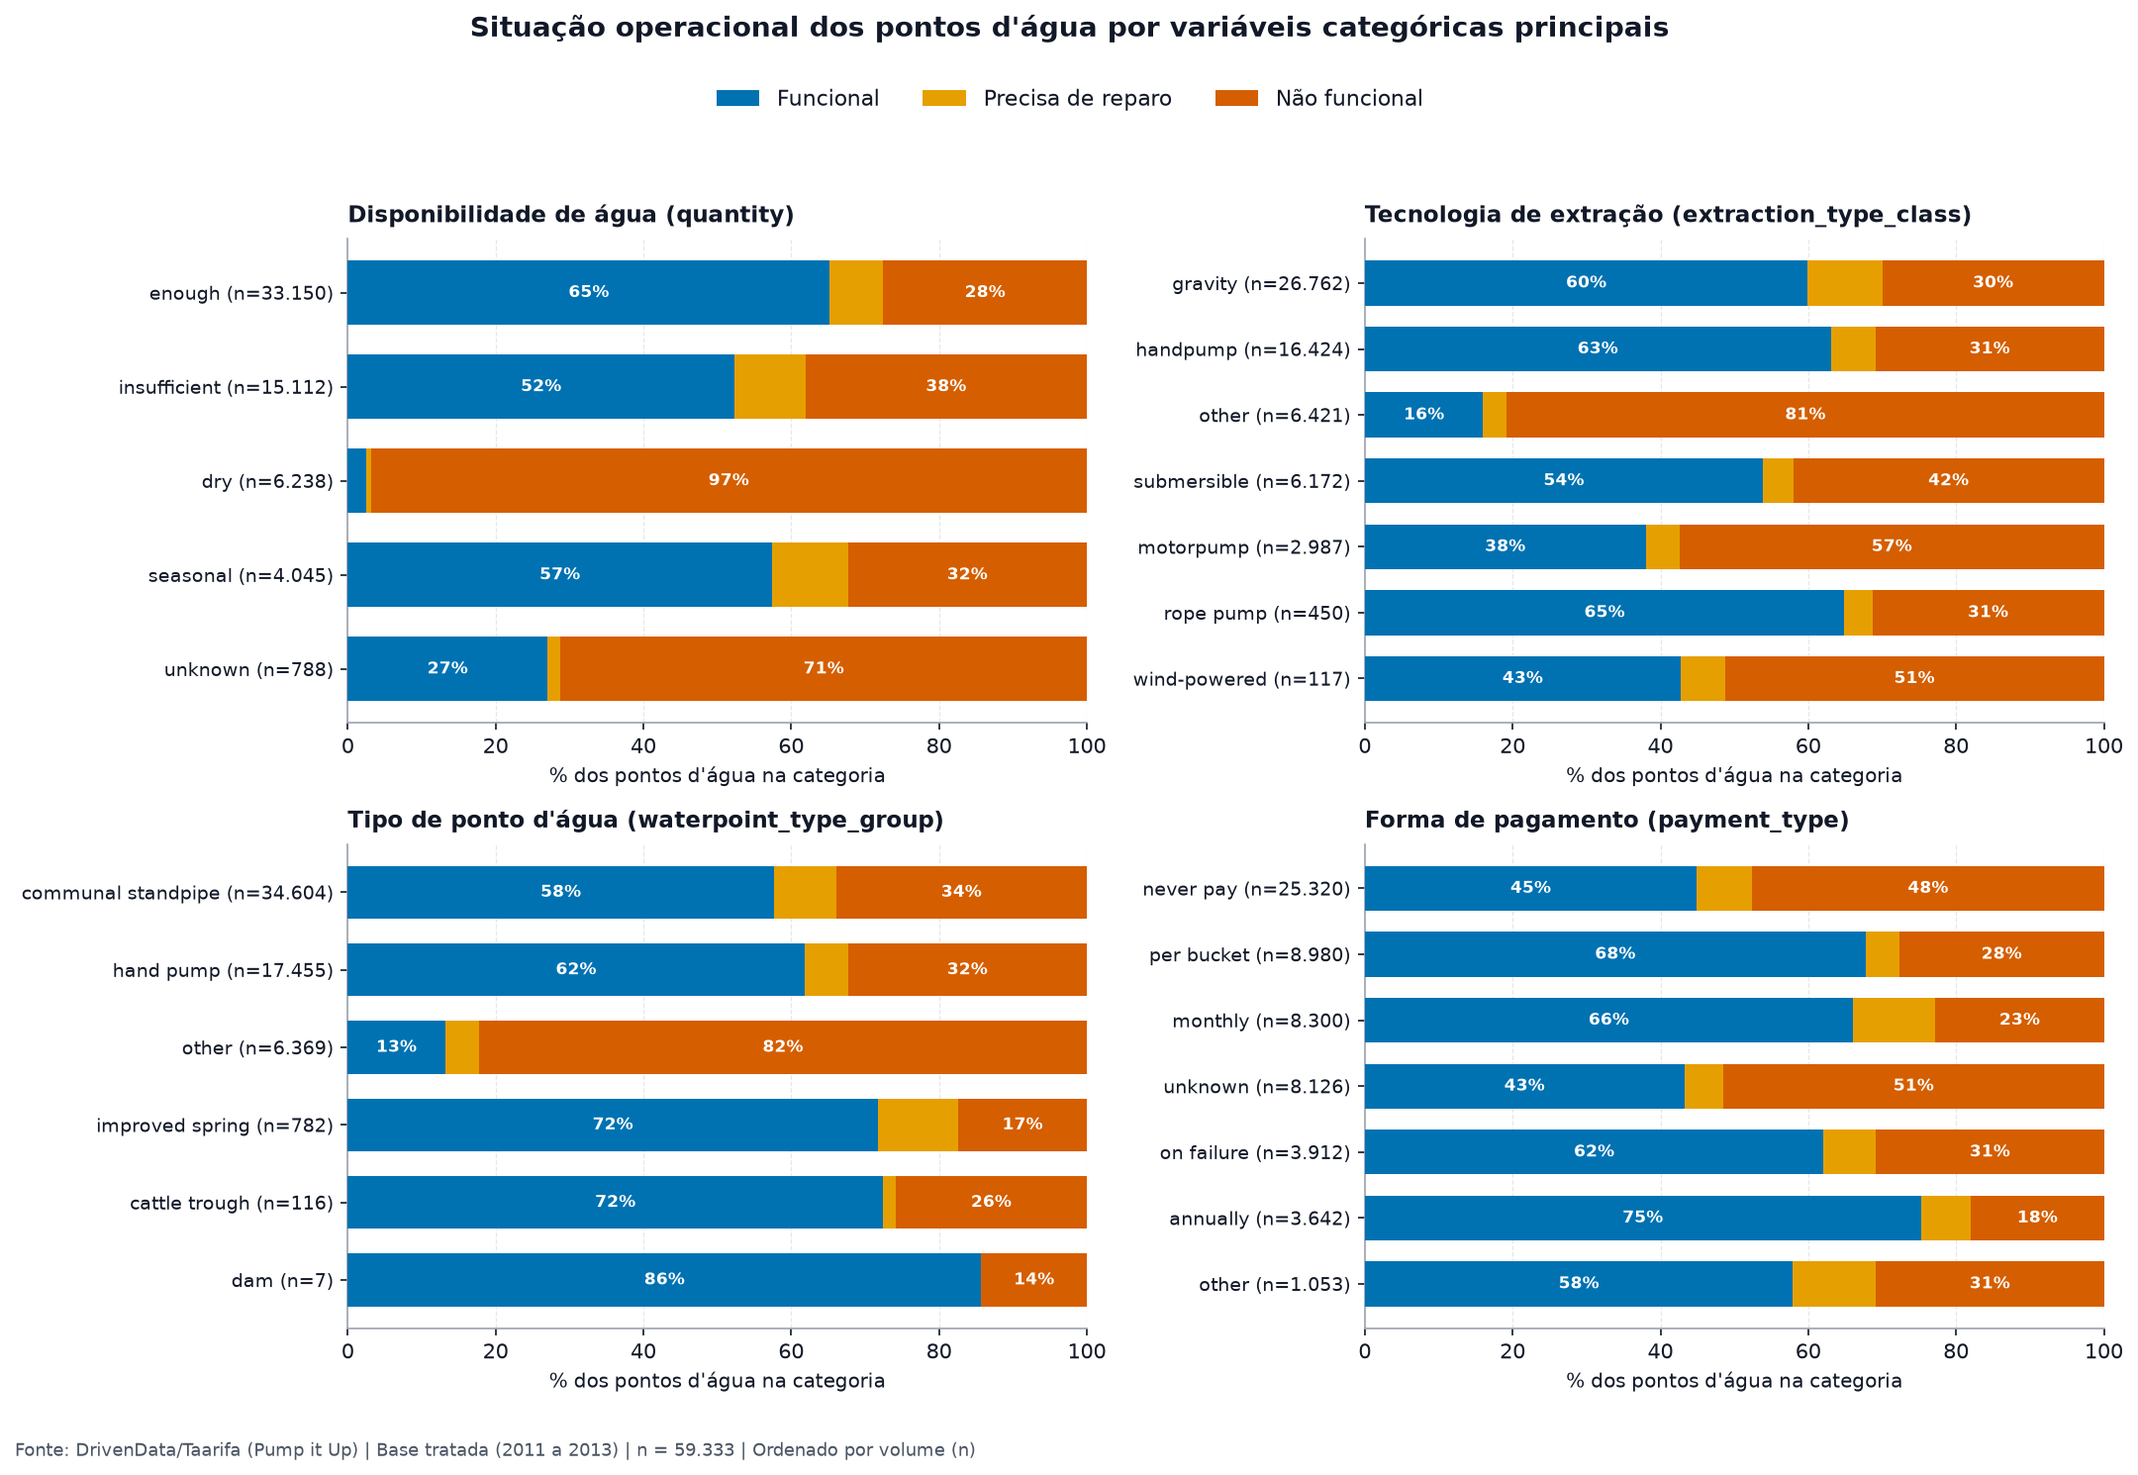
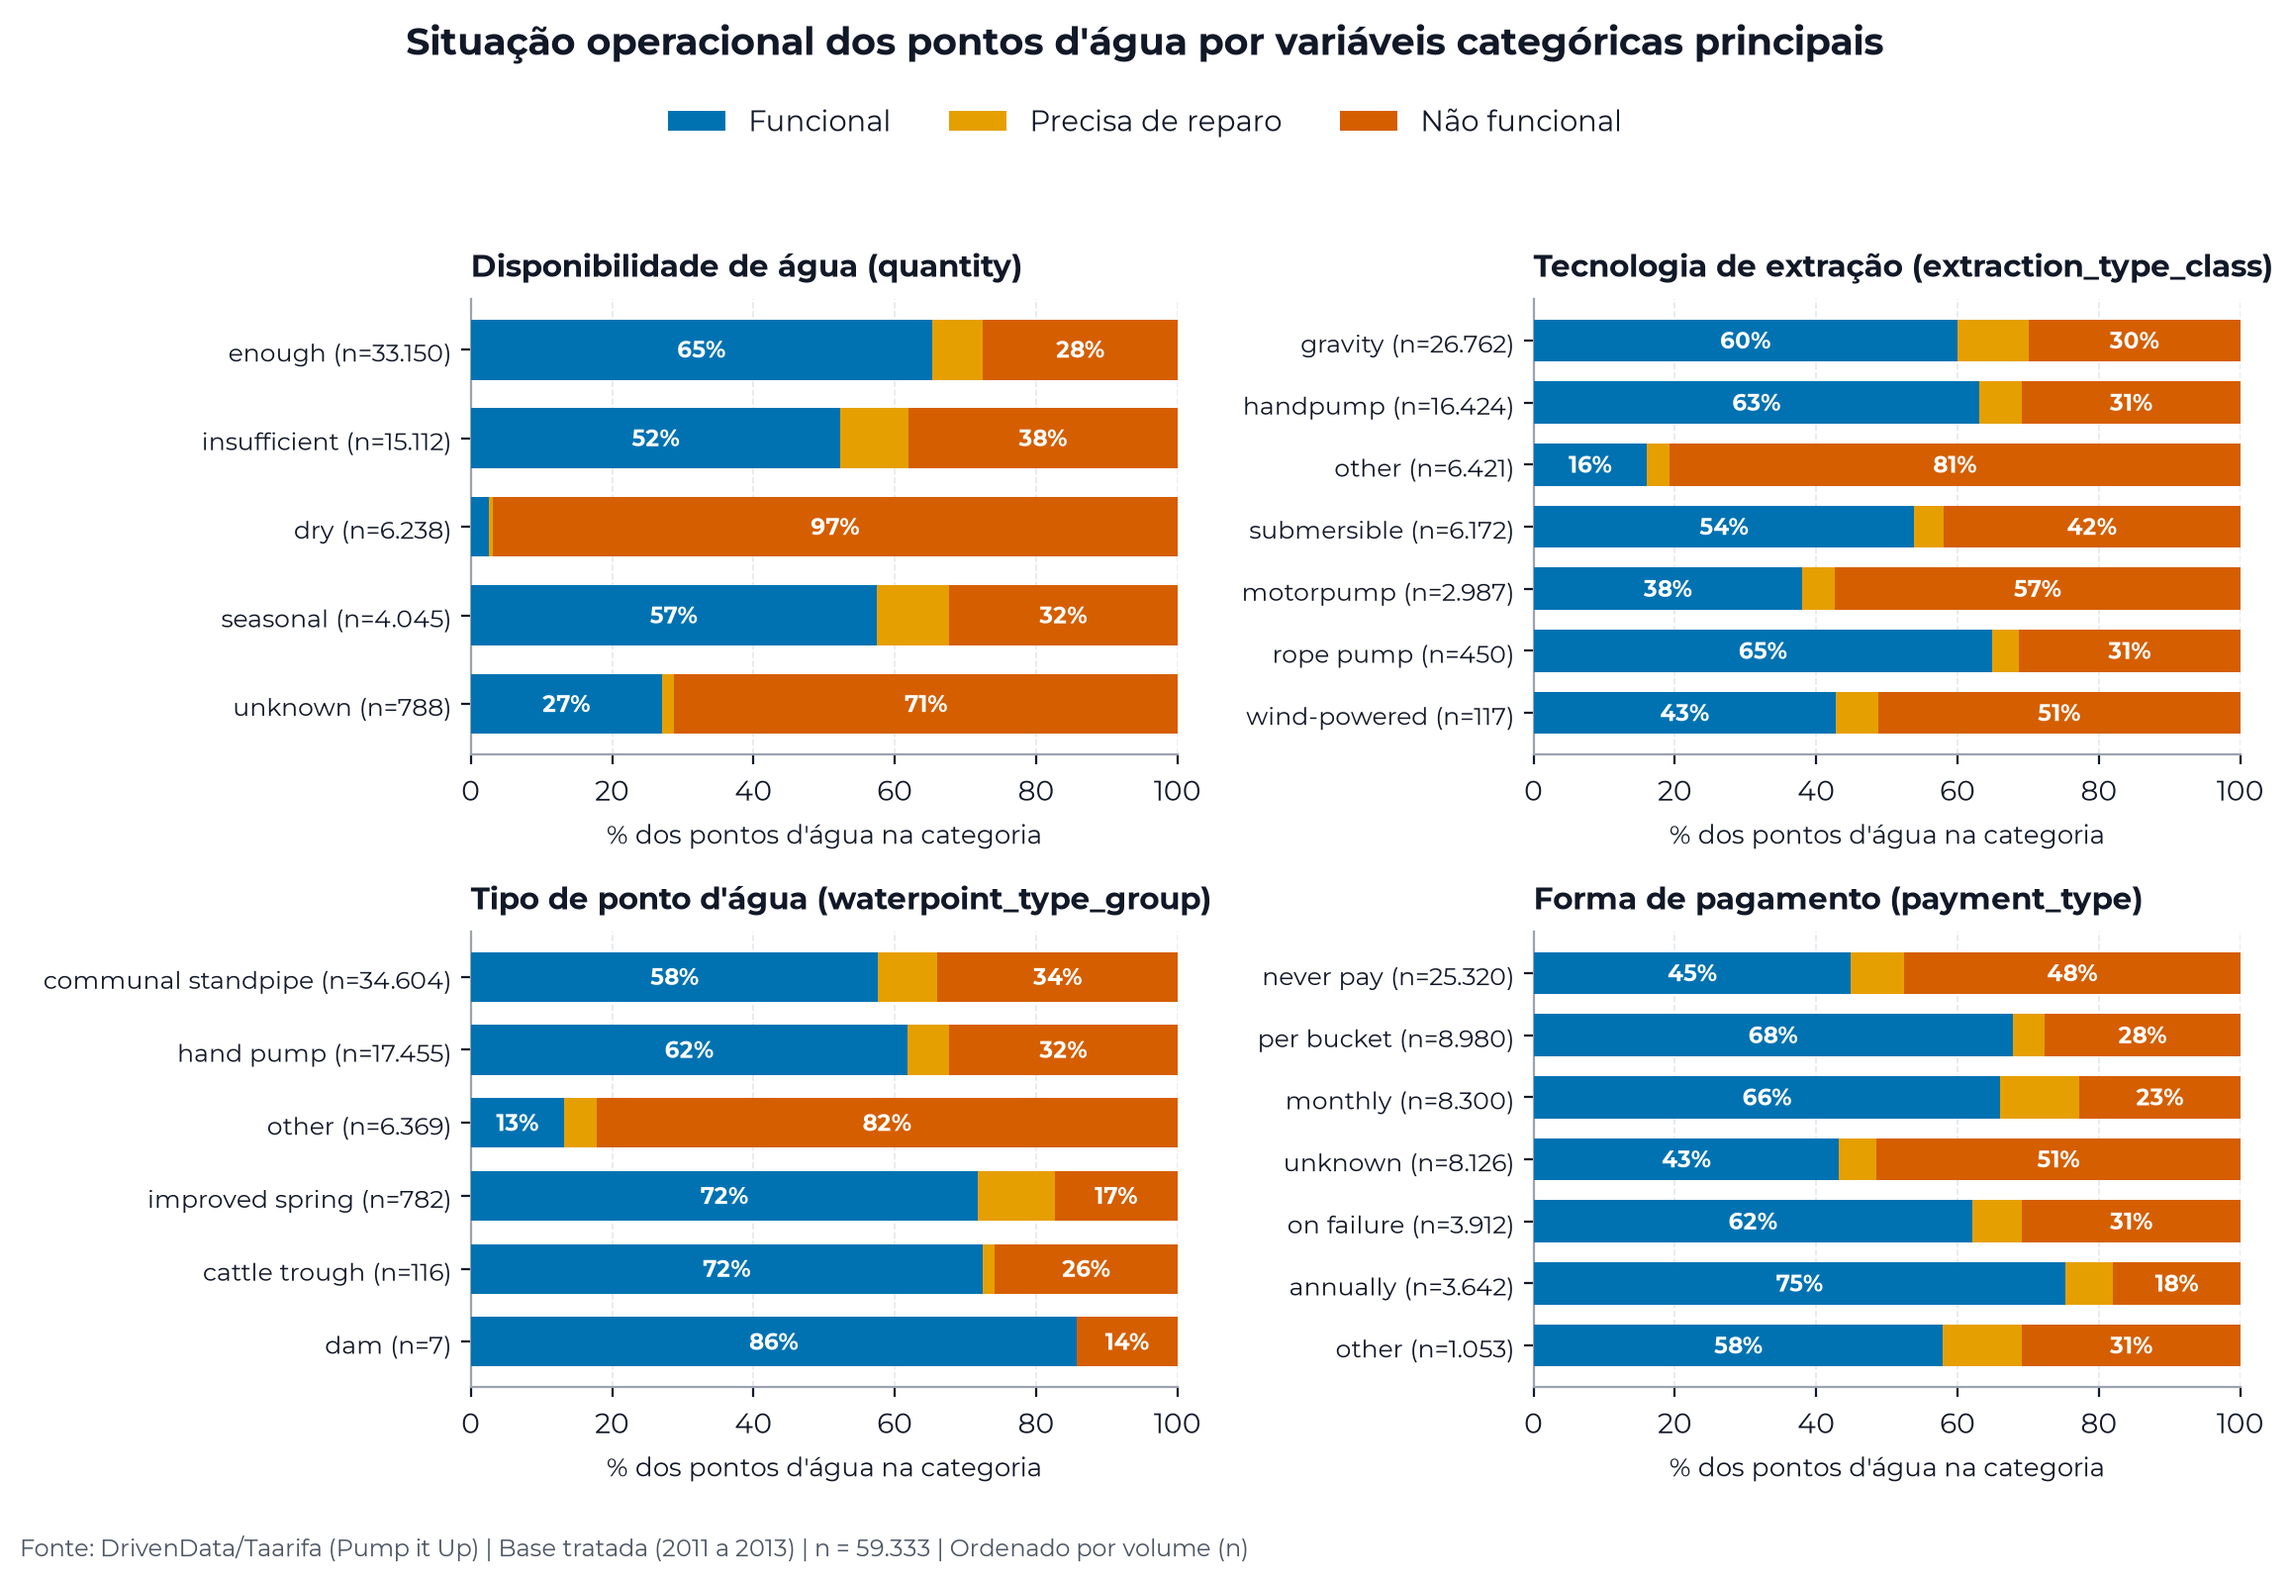
UPD: Figuras finais em Montserrat e com texto maior

Changed region(s): [[0.0, 0.1235, 0.9926, 0.9879], [0.1861, 0.0, 0.8375, 0.0926], [0.5583, 0.8644, 0.5894, 0.8953]]

diff --git a/src/parte_especifica/gerar_figuras_finais.py b/src/parte_especifica/gerar_figuras_finais.py
@@ -59,13 +59,38 @@ def fmt_num(v, casas=1):
     return f"{v:,.{casas}f}".replace(",", "X").replace(".", ",").replace("X", ".")
 
 
+# Fator aplicado ao tamanho do papel de todas as figuras. As fontes ficam com os mesmos pontos, entao,
+# com o papel menor, o texto fica proporcionalmente maior quando a figura entra no slide ou no relatorio.
+ESCALA_PAPEL = 0.8
+DIR_FONTES = ROOT / "src" / "parte_especifica" / "static" / "fonts"
+
+
+def registrar_montserrat():
+    """Usa a Montserrat do repositorio (mesma do dashboard e dos PDFs); sem ela, cai na DejaVu Sans."""
+    from matplotlib import font_manager
+
+    arquivos = sorted(DIR_FONTES.glob("Montserrat-*.ttf"))
+    for arq in arquivos:
+        font_manager.fontManager.addfont(str(arq))
+    return bool(arquivos)
+
+
 def configurar_estilo():
+    tem_montserrat = registrar_montserrat()
+    _subplots_original = plt.subplots
+
+    def subplots_escalado(*args, figsize=None, **kwargs):
+        if figsize is not None:
+            figsize = (figsize[0] * ESCALA_PAPEL, figsize[1] * ESCALA_PAPEL)
+        return _subplots_original(*args, figsize=figsize, **kwargs)
+
+    plt.subplots = subplots_escalado
     plt.rcParams.update({
         "figure.facecolor": "#FFFFFF",
         "axes.facecolor": "#FFFFFF",
         "savefig.facecolor": "#FFFFFF",
         "font.family": "sans-serif",
-        "font.sans-serif": ["DejaVu Sans", "Arial", "Helvetica"],
+        "font.sans-serif": (["Montserrat"] if tem_montserrat else []) + ["DejaVu Sans", "Arial", "Helvetica"],
         "text.color": COR_TEXTO,
         "axes.labelcolor": COR_TEXTO,
         "xtick.color": COR_TEXTO,
@@ -82,7 +107,7 @@ def salvar_fig(fig, nome):
     destino = OUT_DIR / f"{nome}.png"
     for tentativa in range(5):
         try:
-            fig.savefig(destino, dpi=150, bbox_inches="tight", facecolor="#FFFFFF")
+            fig.savefig(destino, dpi=200, bbox_inches="tight", facecolor="#FFFFFF")
             print(f"Salvo: {destino.relative_to(ROOT)}")
             plt.close(fig)
             return
